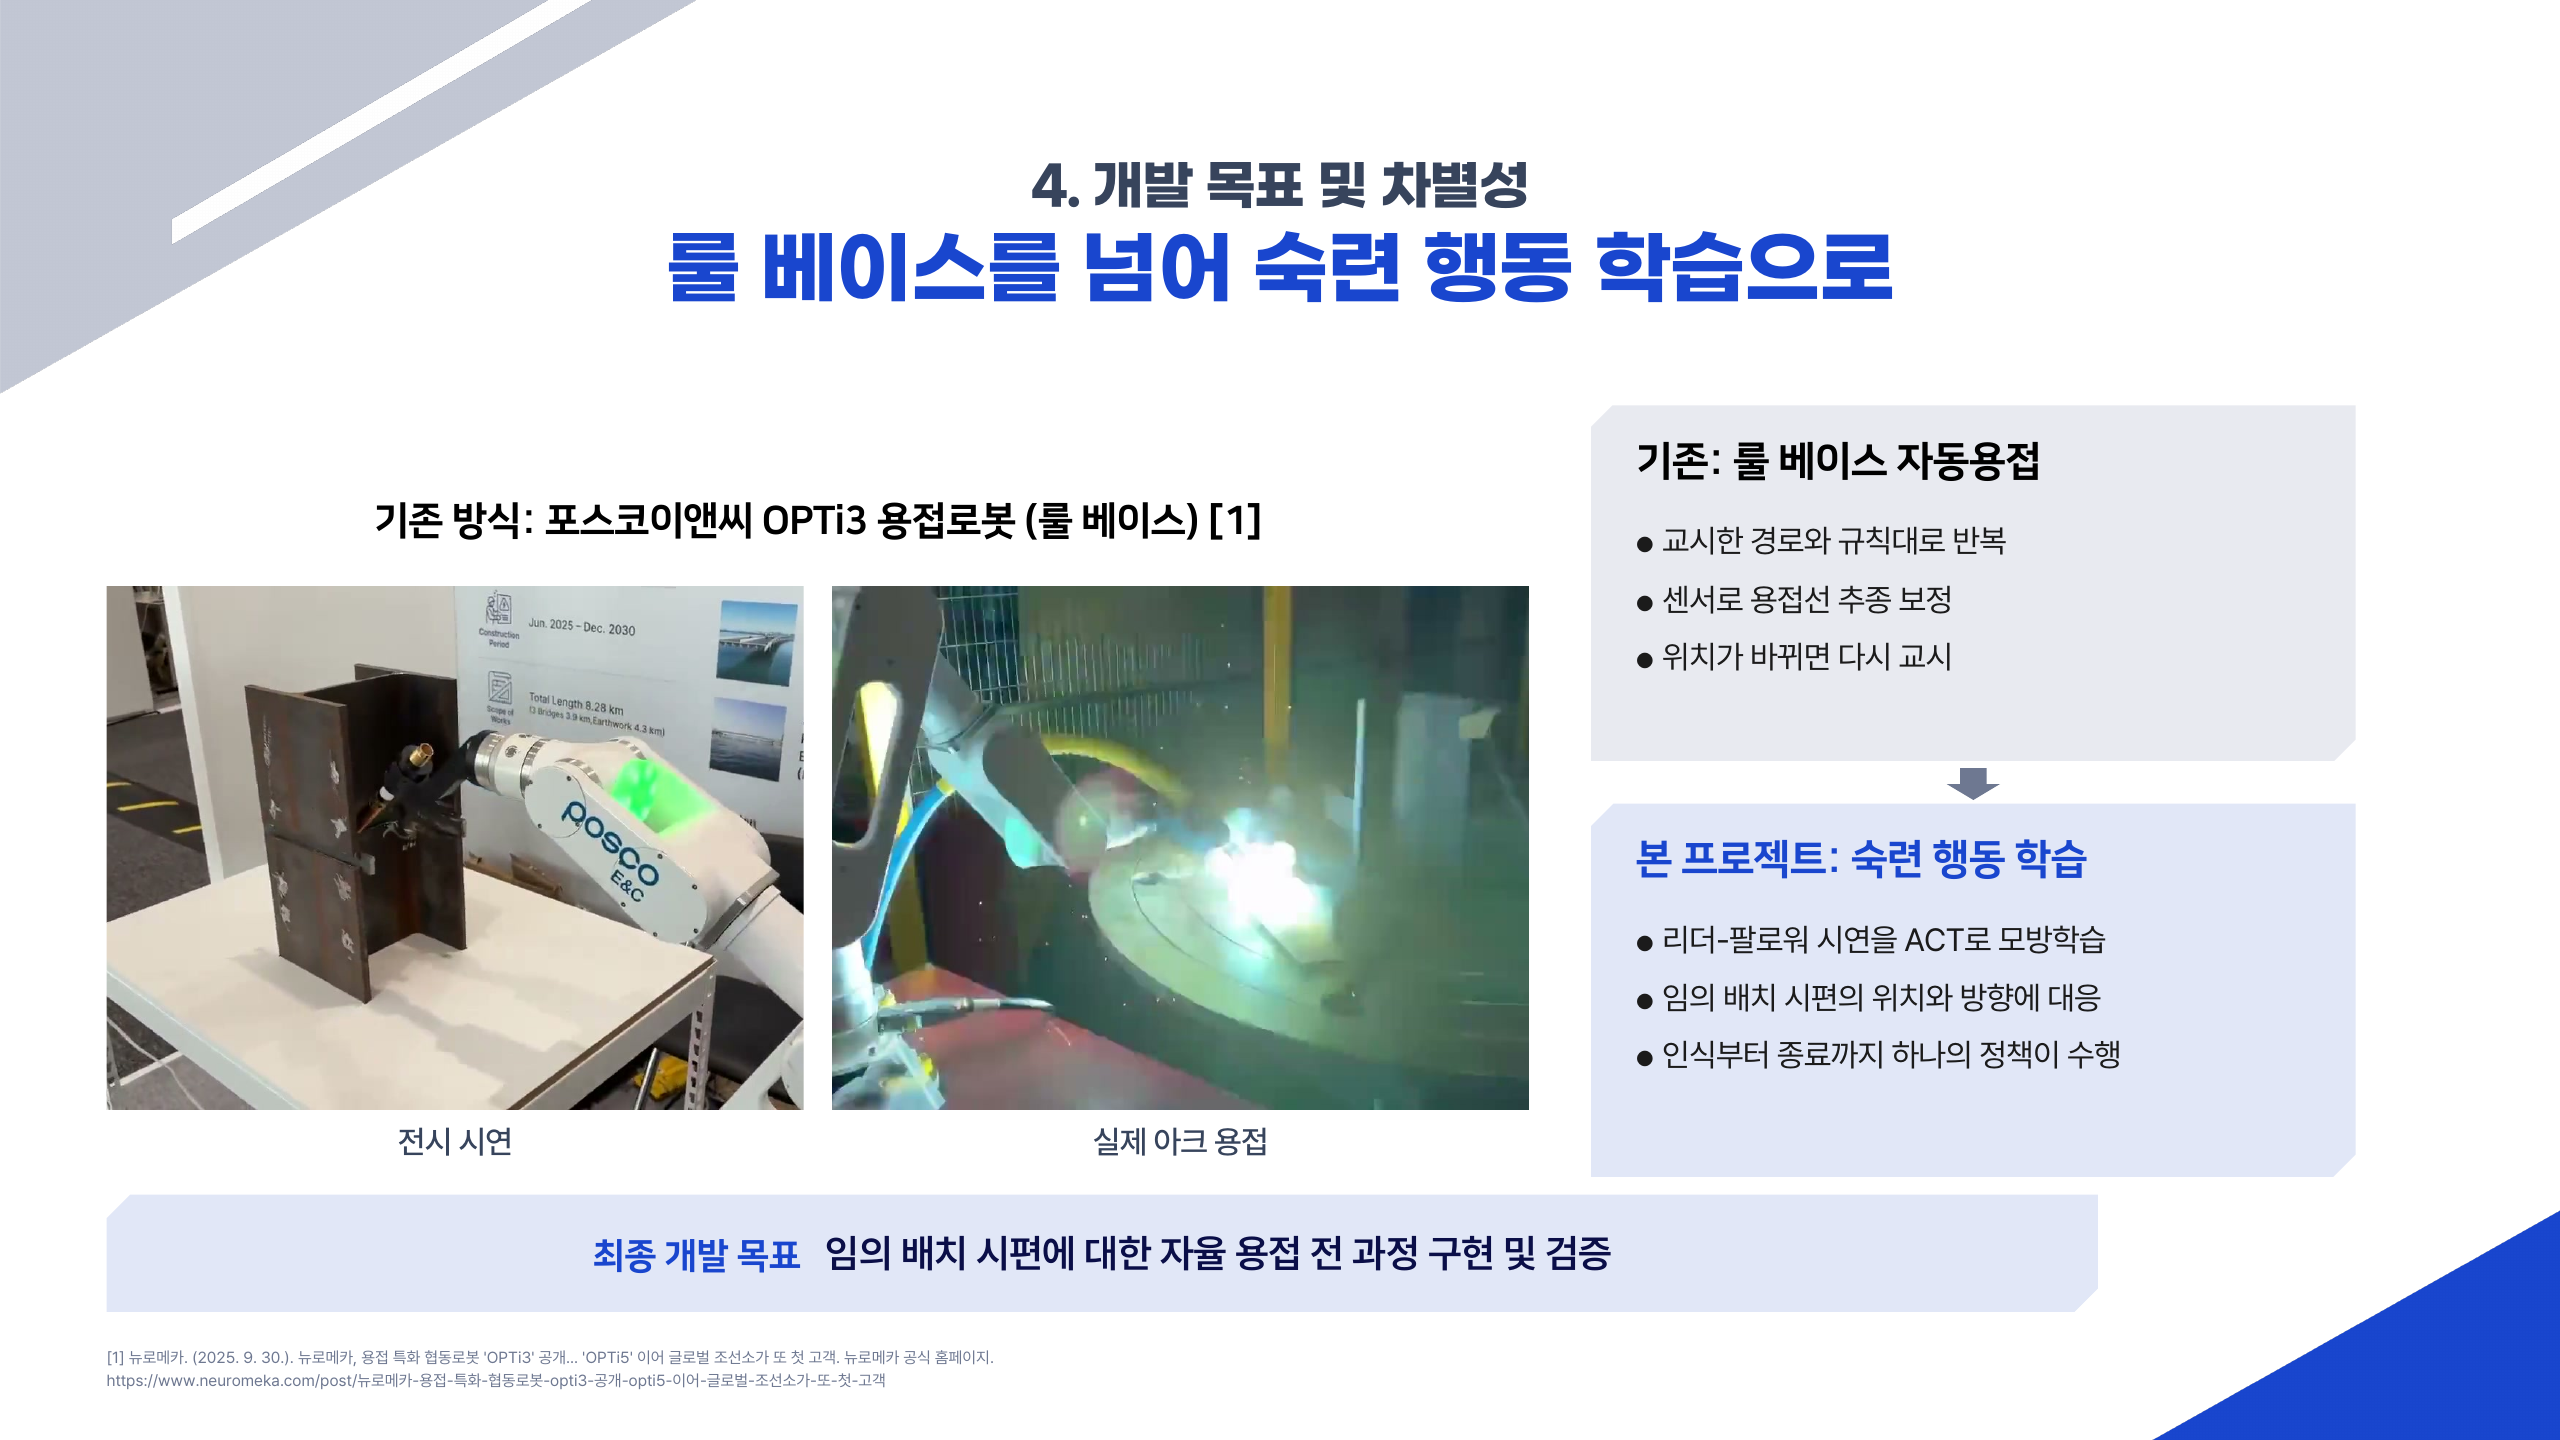
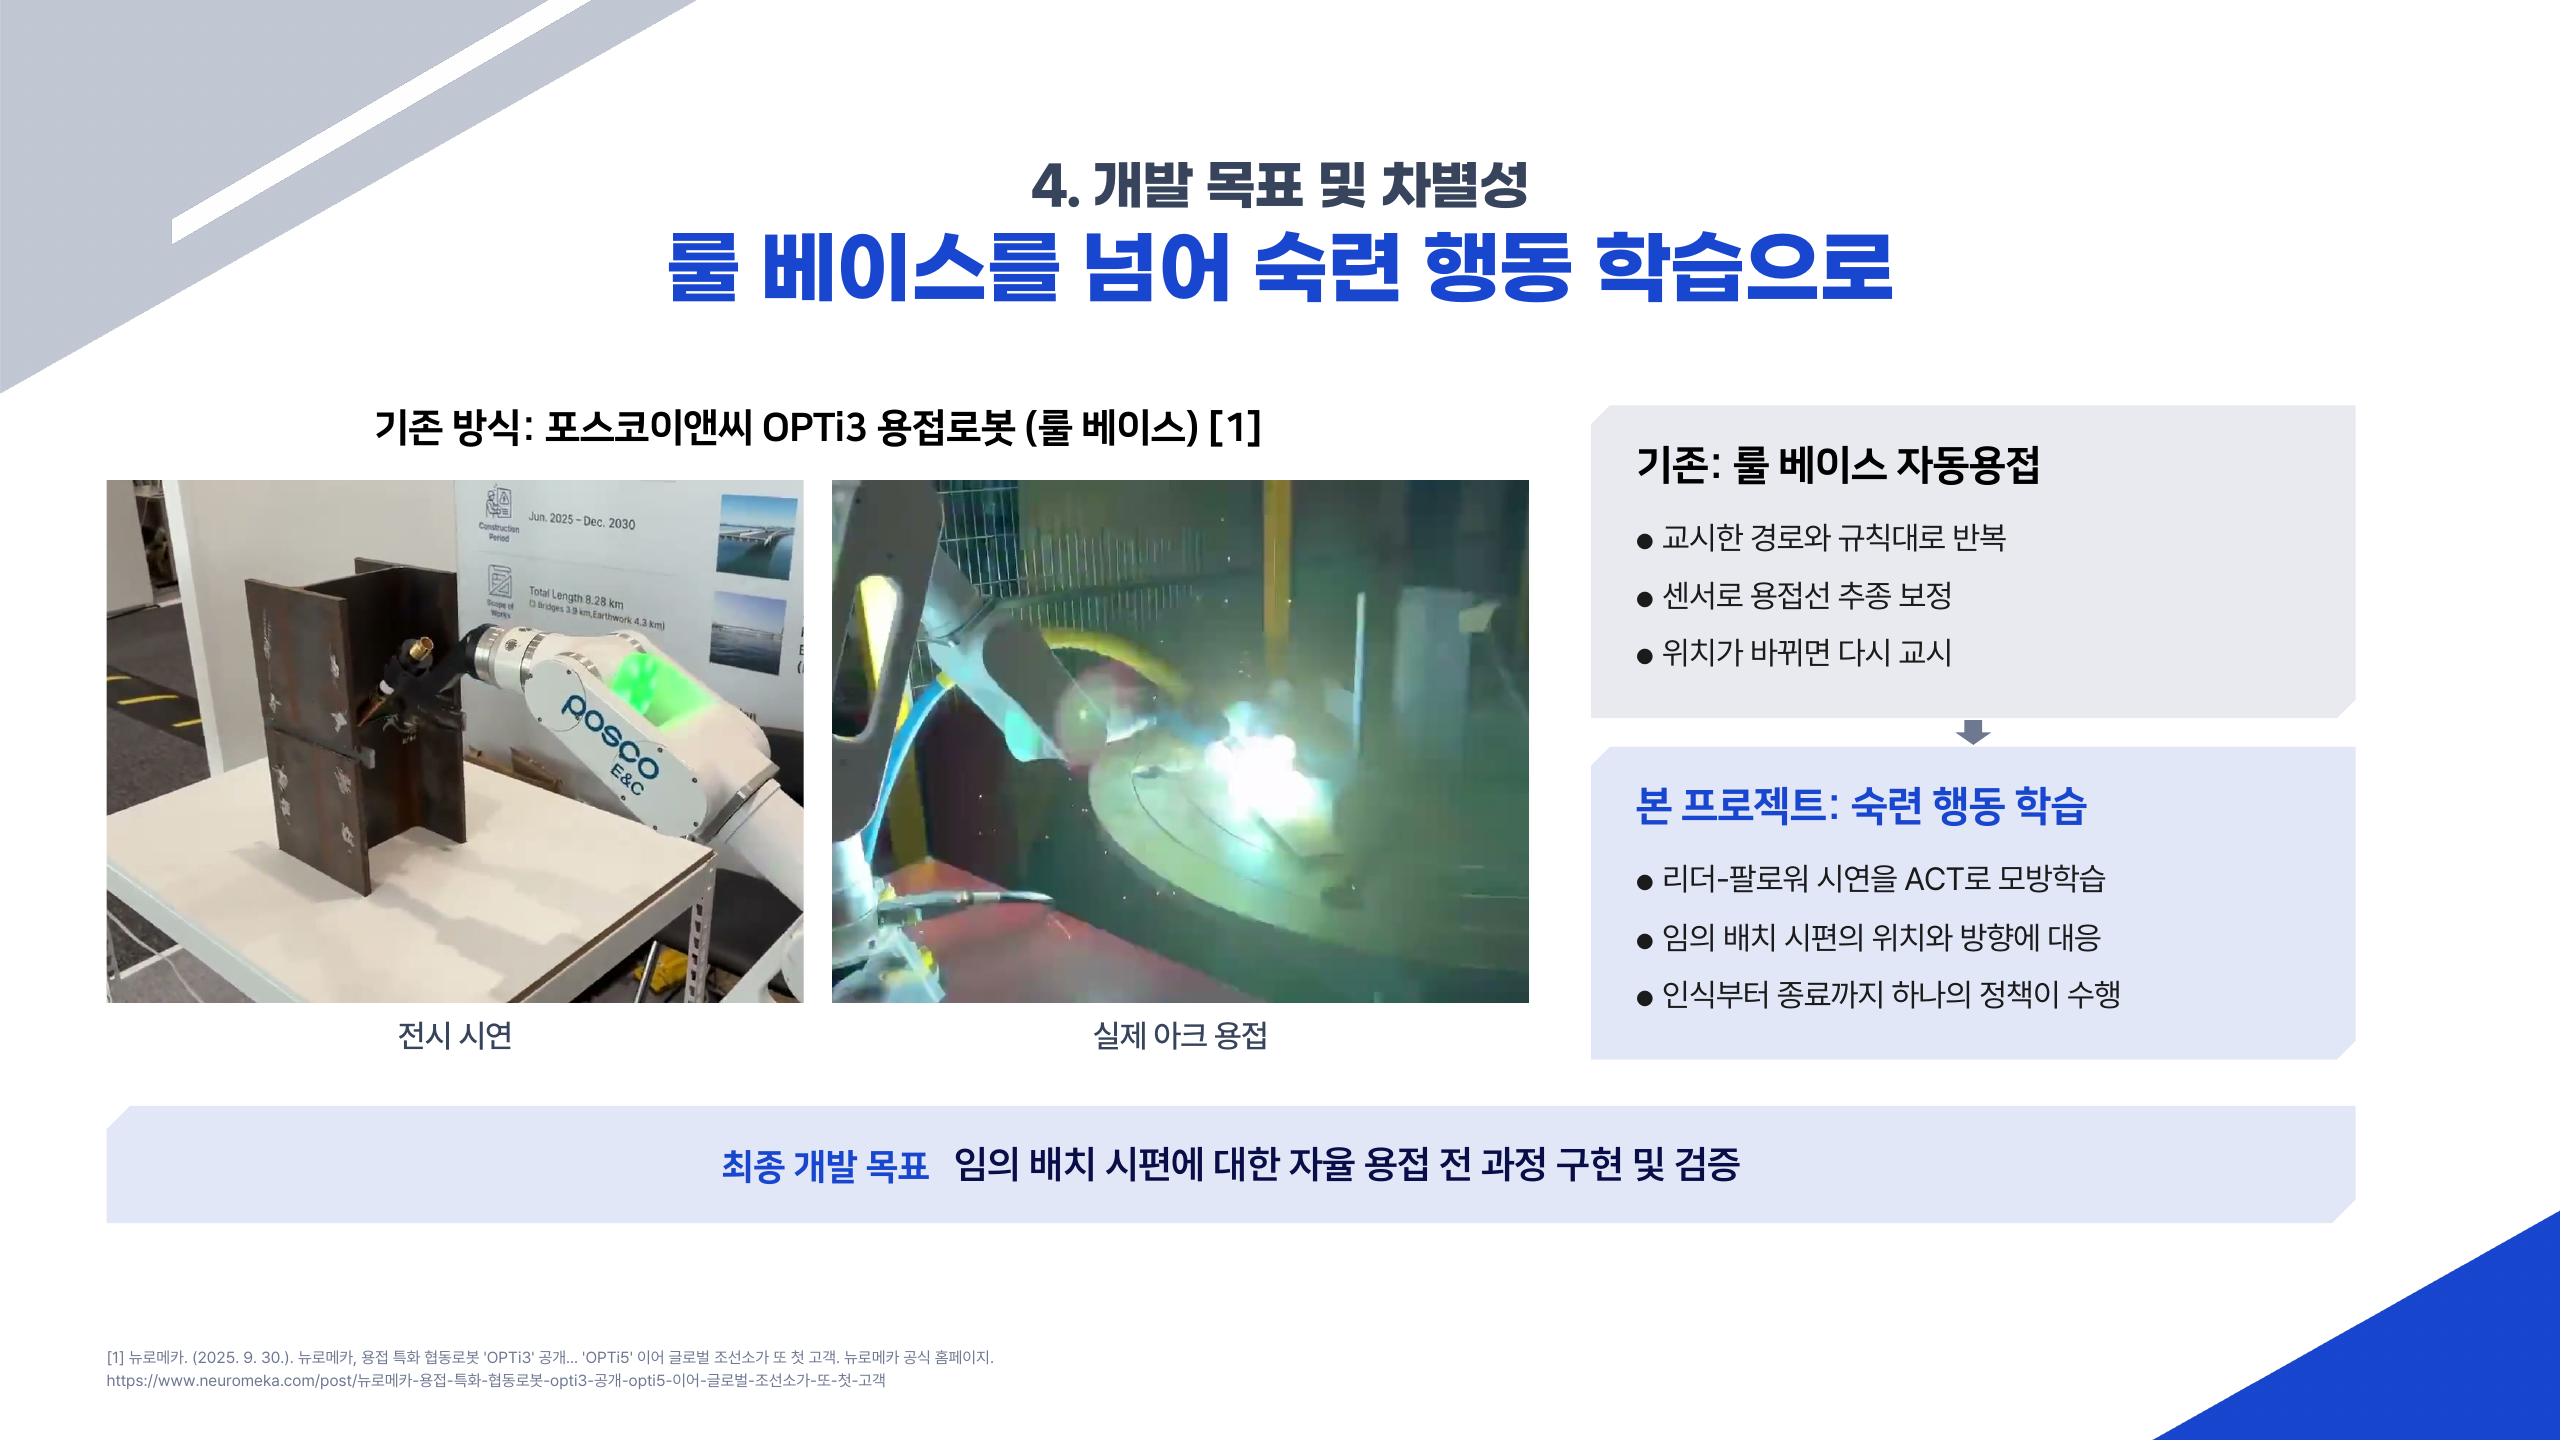
5장 제목 정렬과 화살표 정리, 6장 영상과 비교 상자 높이 맞춤, 9, 15, 17장 상자 여백 정리

diff --git a/index.html b/index.html
@@ -49,11 +49,11 @@
   <img class="slide" src="deck/final/05.png" alt="3. 프로젝트 수행 필요성: 숙련 기술의 계승과 비정형 환경 대응을 위한 자율용접 기술의 필요성" loading="lazy">
   <div class="slide">
     <img src="deck/final/06.png" alt="4. 개발 목표 및 차별성: 룰 베이스를 넘어 숙련 행동 학습으로. OPTi3 용접로봇 전시 시연과 실제 아크 용접 영상, 기존 룰 베이스와 본 프로젝트 비교, 최종 개발 목표" loading="lazy">
-    <!-- PPT 6장 영상 자리(x 60/468, y 330, 392×294pt / 1440×810pt)에 맞춰 올린 실제 영상 -->
-    <video class="clip" style="left:4.1667%; top:40.741%; width:27.222%; height:36.296%;"
+    <!-- PPT 6장 영상 자리(x 60/468, y 270, 392×294pt / 1440×810pt)에 맞춰 올린 실제 영상 -->
+    <video class="clip" style="left:4.1667%; top:33.333%; width:27.222%; height:36.296%;"
            src="deck/img/posco_clip.mp4" poster="deck/final/opti3_poster.jpg"
            muted loop playsinline controls preload="none"></video>
-    <video class="clip" style="left:32.5%; top:40.741%; width:27.222%; height:36.296%;"
+    <video class="clip" style="left:32.5%; top:33.333%; width:27.222%; height:36.296%;"
            src="deck/img/weld_clip.mp4" poster="deck/final/arc_poster.jpg"
            muted loop playsinline controls preload="none"></video>
   </div>
